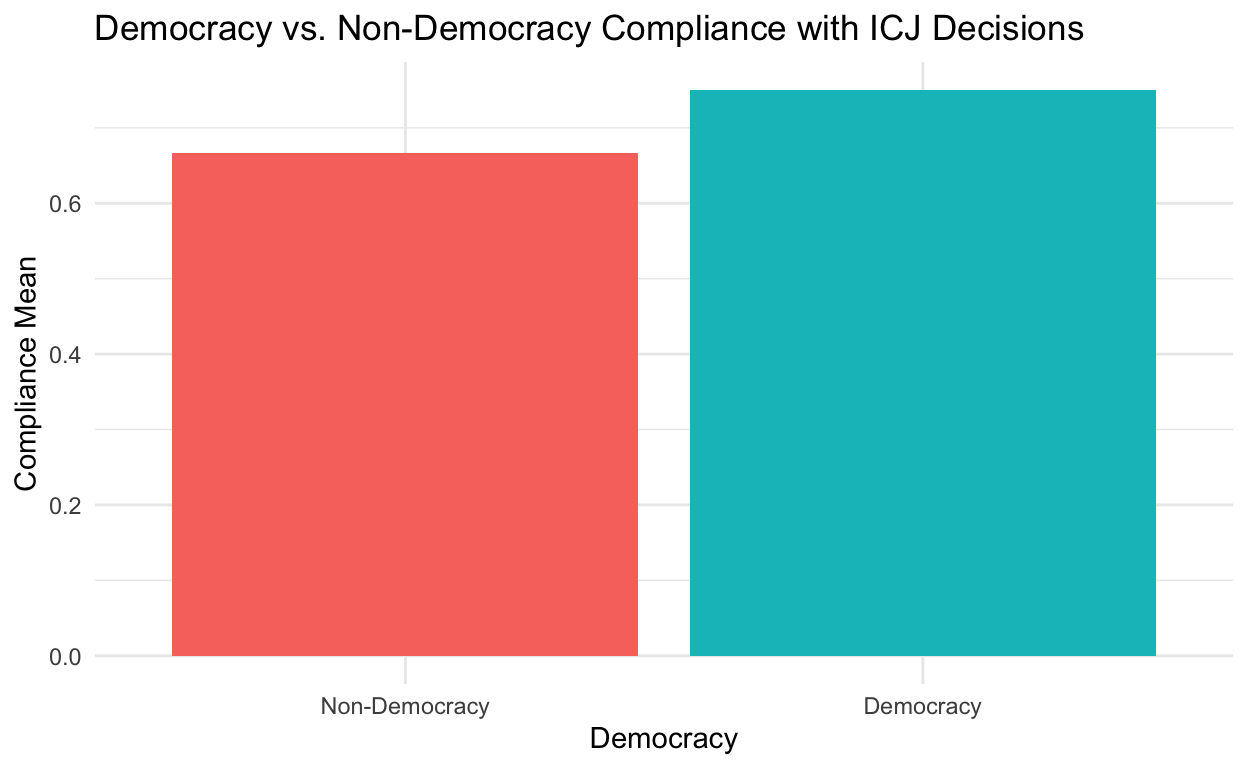
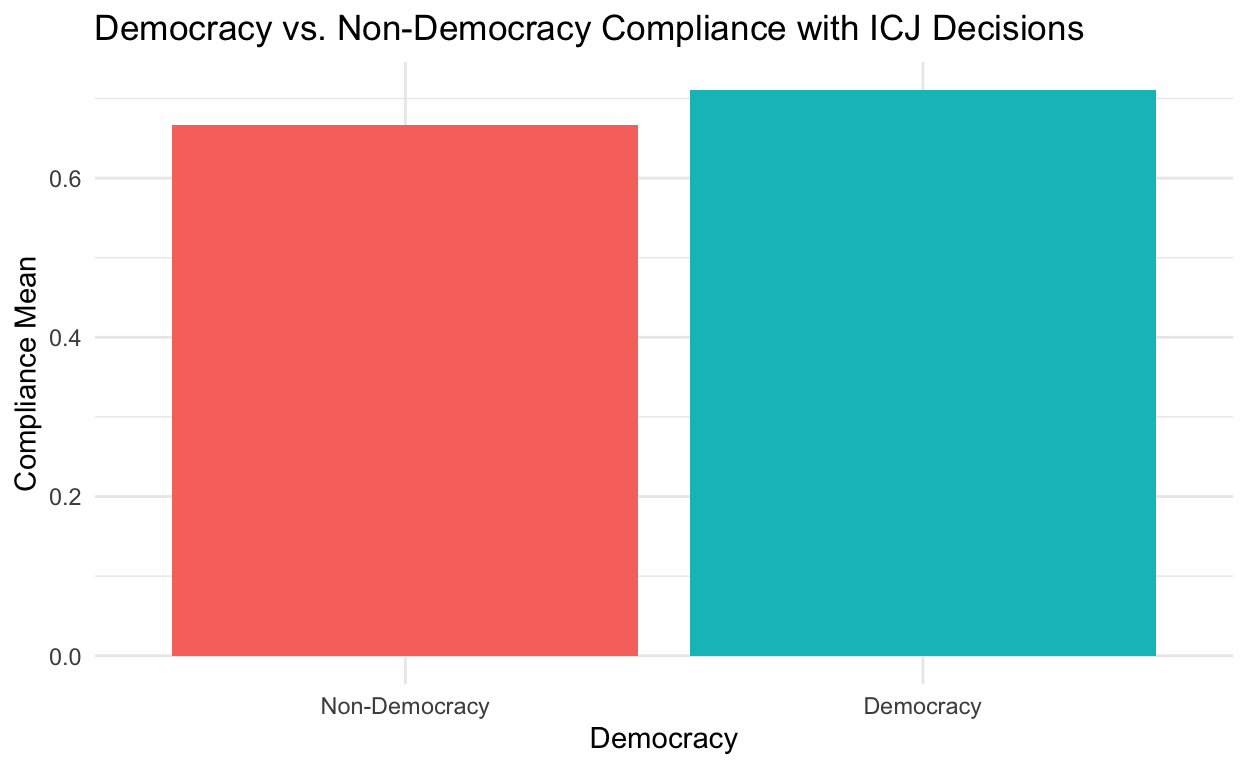
Project Milestone 4 Pt.2

diff --git a/index.html b/index.html
@@ -115,7 +115,7 @@ code span.wa { color: #5e5e5e; font-style: italic; } /* Warning */
   <!--/radix_placeholder_rmarkdown_metadata-->
   
   <script type="text/json" id="radix-resource-manifest">
-  {"type":"character","attributes":{},"value":["icjcompliance.csv","icjcomplianceclean.numbers","index_files/anchor-4.2.2/anchor.min.js","index_files/bowser-1.9.3/bowser.min.js","index_files/distill-2.2.21/template.v2.js","index_files/figure-html5/unnamed-chunk-1-1.png","index_files/header-attrs-2.17/header-attrs.js","index_files/jquery-3.6.0/jquery-3.6.0.js","index_files/jquery-3.6.0/jquery-3.6.0.min.js","index_files/jquery-3.6.0/jquery-3.6.0.min.map","index_files/popper-2.6.0/popper.min.js","index_files/tippy-6.2.7/tippy-bundle.umd.min.js","index_files/tippy-6.2.7/tippy-light-border.css","index_files/tippy-6.2.7/tippy.css","index_files/tippy-6.2.7/tippy.umd.min.js","index_files/webcomponents-2.0.0/webcomponents.js"]}
+  {"type":"character","attributes":{},"value":["icjcompliance.csv","icjcompliance2.csv","icjcompliance3.csv","icjcompliance3.numbers","icjcompliance4.csv","icjcomplianceclean.numbers","index_files/anchor-4.2.2/anchor.min.js","index_files/bowser-1.9.3/bowser.min.js","index_files/distill-2.2.21/template.v2.js","index_files/figure-html5/unnamed-chunk-1-1.png","index_files/header-attrs-2.16/header-attrs.js","index_files/header-attrs-2.17/header-attrs.js","index_files/jquery-3.6.0/jquery-3.6.0.js","index_files/jquery-3.6.0/jquery-3.6.0.min.js","index_files/jquery-3.6.0/jquery-3.6.0.min.map","index_files/popper-2.6.0/popper.min.js","index_files/tippy-6.2.7/tippy-bundle.umd.min.js","index_files/tippy-6.2.7/tippy-light-border.css","index_files/tippy-6.2.7/tippy.css","index_files/tippy-6.2.7/tippy.umd.min.js","index_files/webcomponents-2.0.0/webcomponents.js"]}
   </script>
   <!--radix_placeholder_navigation_in_header-->
   <!--/radix_placeholder_navigation_in_header-->
@@ -1525,10 +1525,10 @@ code span.wa { color: #5e5e5e; font-style: italic; } /* Warning */
 <div class="layout-chunk" data-layout="l-body">
 <div class="sourceCode">
 <pre class="sourceCode r"><code class="sourceCode r"><span><span class='kw'><a href='https://rdrr.io/r/base/library.html'>library</a></span><span class='op'>(</span><span class='va'><a href='https://tidyverse.tidyverse.org'>tidyverse</a></span><span class='op'>)</span></span>
-<span><span class='va'>icj_comp</span> <span class='op'>&lt;-</span> <span class='fu'><a href='https://readr.tidyverse.org/reference/read_delim.html'>read_csv</a></span><span class='op'>(</span><span class='st'>"icjcompliance.csv"</span><span class='op'>)</span></span>
+<span><span class='va'>icj_comp</span> <span class='op'>&lt;-</span> <span class='fu'><a href='https://readr.tidyverse.org/reference/read_delim.html'>read_csv</a></span><span class='op'>(</span><span class='st'>"icjcompliance4.csv"</span><span class='op'>)</span></span>
 <span><span class='va'>icj_comp</span></span></code></pre>
 </div>
-<pre><code># A tibble: 146 × 9
+<pre><code># A tibble: 152 × 9
      No. Title Regis…¹ Judge…² Appli…³ Respo…⁴ Burde…⁵ Time-…⁶ Compl…⁷
    &lt;dbl&gt; &lt;chr&gt;   &lt;dbl&gt;   &lt;dbl&gt; &lt;chr&gt;   &lt;chr&gt;   &lt;chr&gt;     &lt;dbl&gt;   &lt;dbl&gt;
  1     1 Corf…    1947    1949 United… Albania Albania      -9       0
@@ -1541,7 +1541,7 @@ code span.wa { color: #5e5e5e; font-style: italic; } /* Warning */
  8    17 Minq…    1951    1953 France… &lt;NA&gt;    France       10       1
  9    18 Nott…    1951    1955 Liecht… Guatem… Liecht…      NA       1
 10    19 Case…    1953    1954 Italy   France… &lt;NA&gt;         NA      NA
-# … with 136 more rows, and abbreviated variable names
+# … with 142 more rows, and abbreviated variable names
 #   ¹`Registration Year`, ²`Judgement Year`,
 #   ³`Applicant\n or parties to SA`, ⁴Respondent,
 #   ⁵`Burden of Compliance`, ⁶`Time-Varying Polity Score`,
@@ -1571,11 +1571,57 @@ code span.wa { color: #5e5e5e; font-style: italic; } /* Warning */
 </div>
 <p><img src="index_files/figure-html5/unnamed-chunk-1-1.png" width="624" /></p>
 </div>
-<p>Sources:
-- <a href="https://www.systemicpeace.org/polity/polity4x.htm" class="uri">https://www.systemicpeace.org/polity/polity4x.htm</a>
-<a href="http://www.systemicpeace.org/inscrdata.html" class="uri">http://www.systemicpeace.org/inscrdata.html</a>
-- <a href="https://www.ifo.de/DocDL/dice-report-2019-3-hainz_moffet_rhode-october_0.pdf" class="uri">https://www.ifo.de/DocDL/dice-report-2019-3-hainz_moffet_rhode-october_0.pdf</a></p>
-<div class="sourceCode" id="cb2"><pre class="sourceCode r distill-force-highlighting-css"><code class="sourceCode r"></code></pre></div>
+<h2 id="results-and-analysis">Results and Analysis</h2>
+<div class="layout-chunk" data-layout="l-body">
+<div class="sourceCode">
+<pre class="sourceCode r"><code class="sourceCode r"><span><span class='va'>fit</span> <span class='op'>&lt;-</span> <span class='fu'><a href='https://rdrr.io/r/stats/lm.html'>lm</a></span><span class='op'>(</span><span class='va'>comp_mean</span> <span class='op'>~</span> <span class='va'>democracy</span>, data <span class='op'>=</span> <span class='va'>comp_mean_dem</span><span class='op'>)</span></span>
+<span><span class='va'>fit</span></span></code></pre>
+</div>
+<pre><code>
+Call:
+lm(formula = comp_mean ~ democracy, data = comp_mean_dem)
+
+Coefficients:
+(Intercept)    democracy  
+    0.66667      0.04386  </code></pre>
+<div class="sourceCode">
+<pre class="sourceCode r"><code class="sourceCode r"><span><span class='va'>fit</span> <span class='op'>|&gt;</span></span>
+<span>  <span class='fu'>broom</span><span class='fu'>::</span><span class='fu'><a href='https://generics.r-lib.org/reference/tidy.html'>tidy</a></span><span class='op'>(</span><span class='op'>)</span> <span class='op'>|&gt;</span></span>
+<span>  <span class='fu'><a href='https://dplyr.tidyverse.org/reference/select.html'>select</a></span><span class='op'>(</span><span class='va'>term</span>, <span class='va'>estimate</span><span class='op'>)</span> <span class='op'>|&gt;</span>  </span>
+<span>  <span class='fu'>knitr</span><span class='fu'>::</span><span class='fu'><a href='https://rdrr.io/pkg/knitr/man/kable.html'>kable</a></span><span class='op'>(</span>digits <span class='op'>=</span> <span class='fl'>2</span><span class='op'>)</span></span></code></pre>
+</div>
+<table>
+<thead>
+<tr class="header">
+<th style="text-align: left;">term</th>
+<th style="text-align: right;">estimate</th>
+</tr>
+</thead>
+<tbody>
+<tr class="odd">
+<td style="text-align: left;">(Intercept)</td>
+<td style="text-align: right;">0.67</td>
+</tr>
+<tr class="even">
+<td style="text-align: left;">democracy</td>
+<td style="text-align: right;">0.04</td>
+</tr>
+</tbody>
+</table>
+<div class="sourceCode">
+<pre class="sourceCode r"><code class="sourceCode r"><span><span class='va'>fit</span></span></code></pre>
+</div>
+<pre><code>
+Call:
+lm(formula = comp_mean ~ democracy, data = comp_mean_dem)
+
+Coefficients:
+(Intercept)    democracy  
+    0.66667      0.04386  </code></pre>
+</div>
+<p>On average, democracies tend to comply more with International Court of Justice decisions. Non-democracies have a 66.7% likelihood of complying with decisions, while democracies have a 71.1% likelihood. Therefore, if a state is democratic, it is approximately 4% more likely to comply than non-democratic states.</p>
+<p>Sources: - <a href="https://www.systemicpeace.org/polity/polity4x.htm" class="uri">https://www.systemicpeace.org/polity/polity4x.htm</a> <a href="http://www.systemicpeace.org/inscrdata.html" class="uri">http://www.systemicpeace.org/inscrdata.html</a> - <a href="https://www.ifo.de/DocDL/dice-report-2019-3-hainz_moffet_rhode-october_0.pdf" class="uri">https://www.ifo.de/DocDL/dice-report-2019-3-hainz_moffet_rhode-october_0.pdf</a></p>
+<div class="sourceCode" id="cb4"><pre class="sourceCode r distill-force-highlighting-css"><code class="sourceCode r"></code></pre></div>
 <!--radix_placeholder_article_footer-->
 <!--/radix_placeholder_article_footer-->
 </div>
